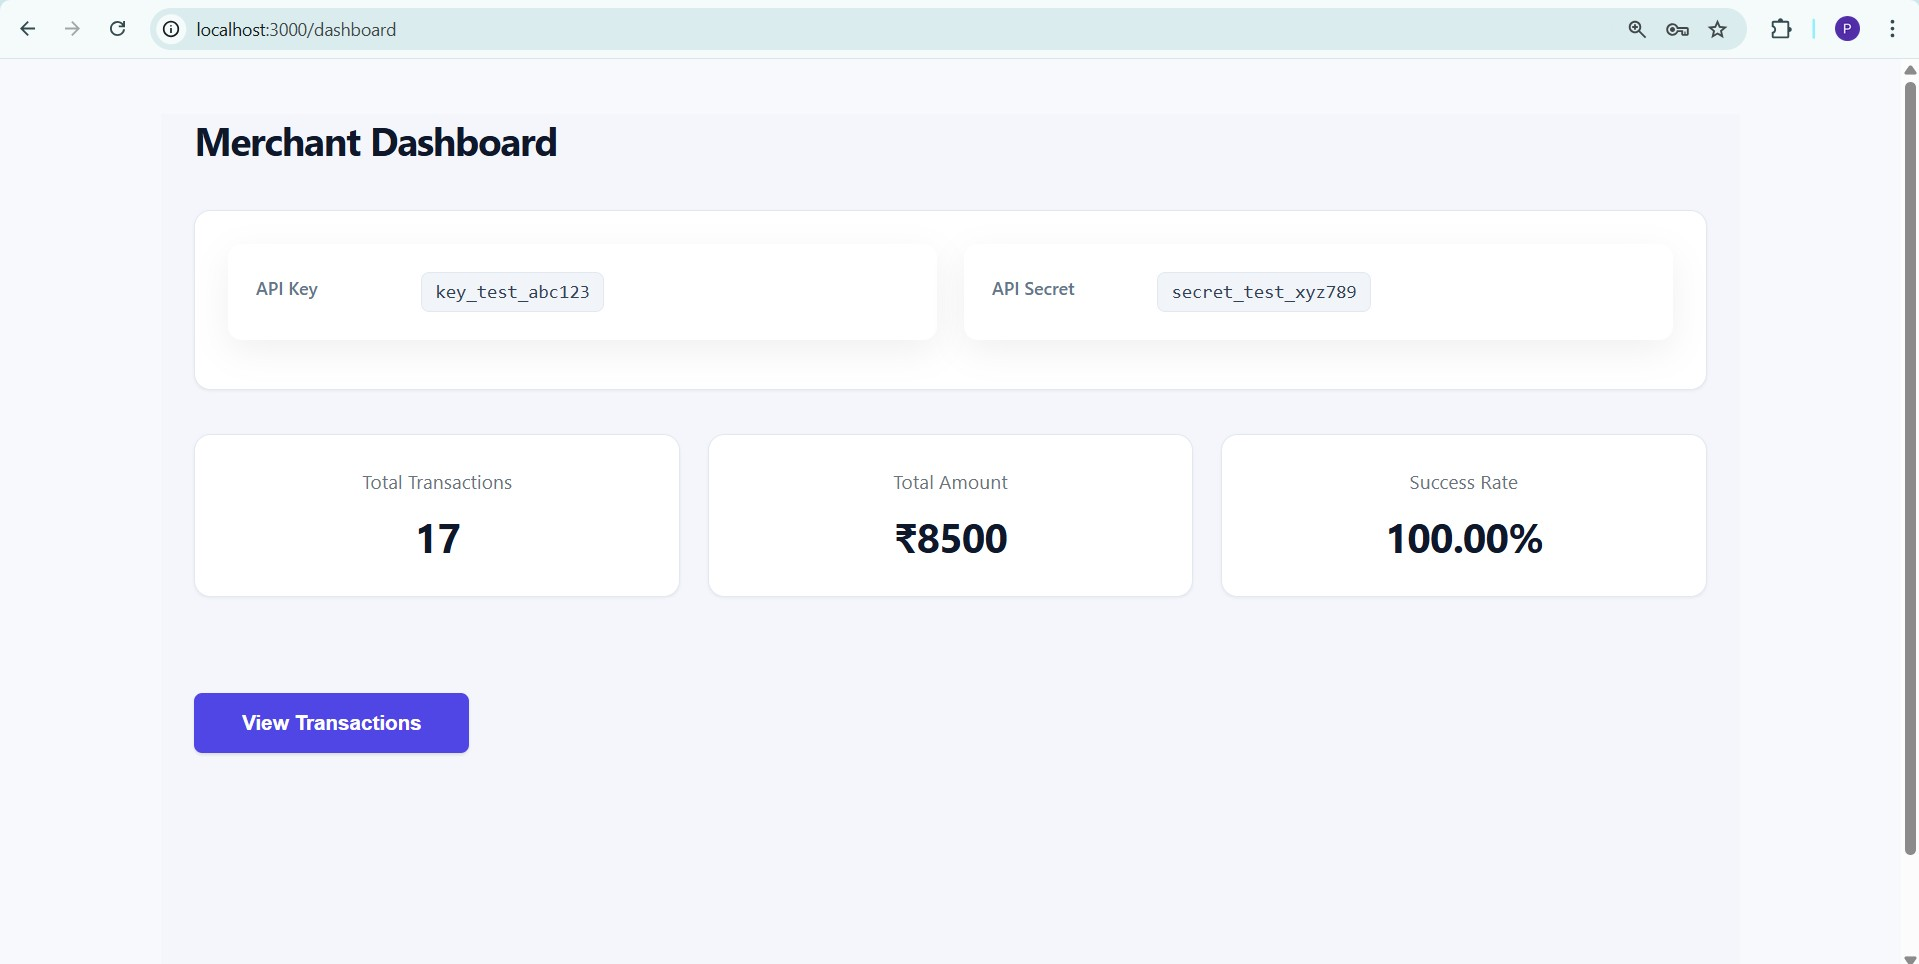
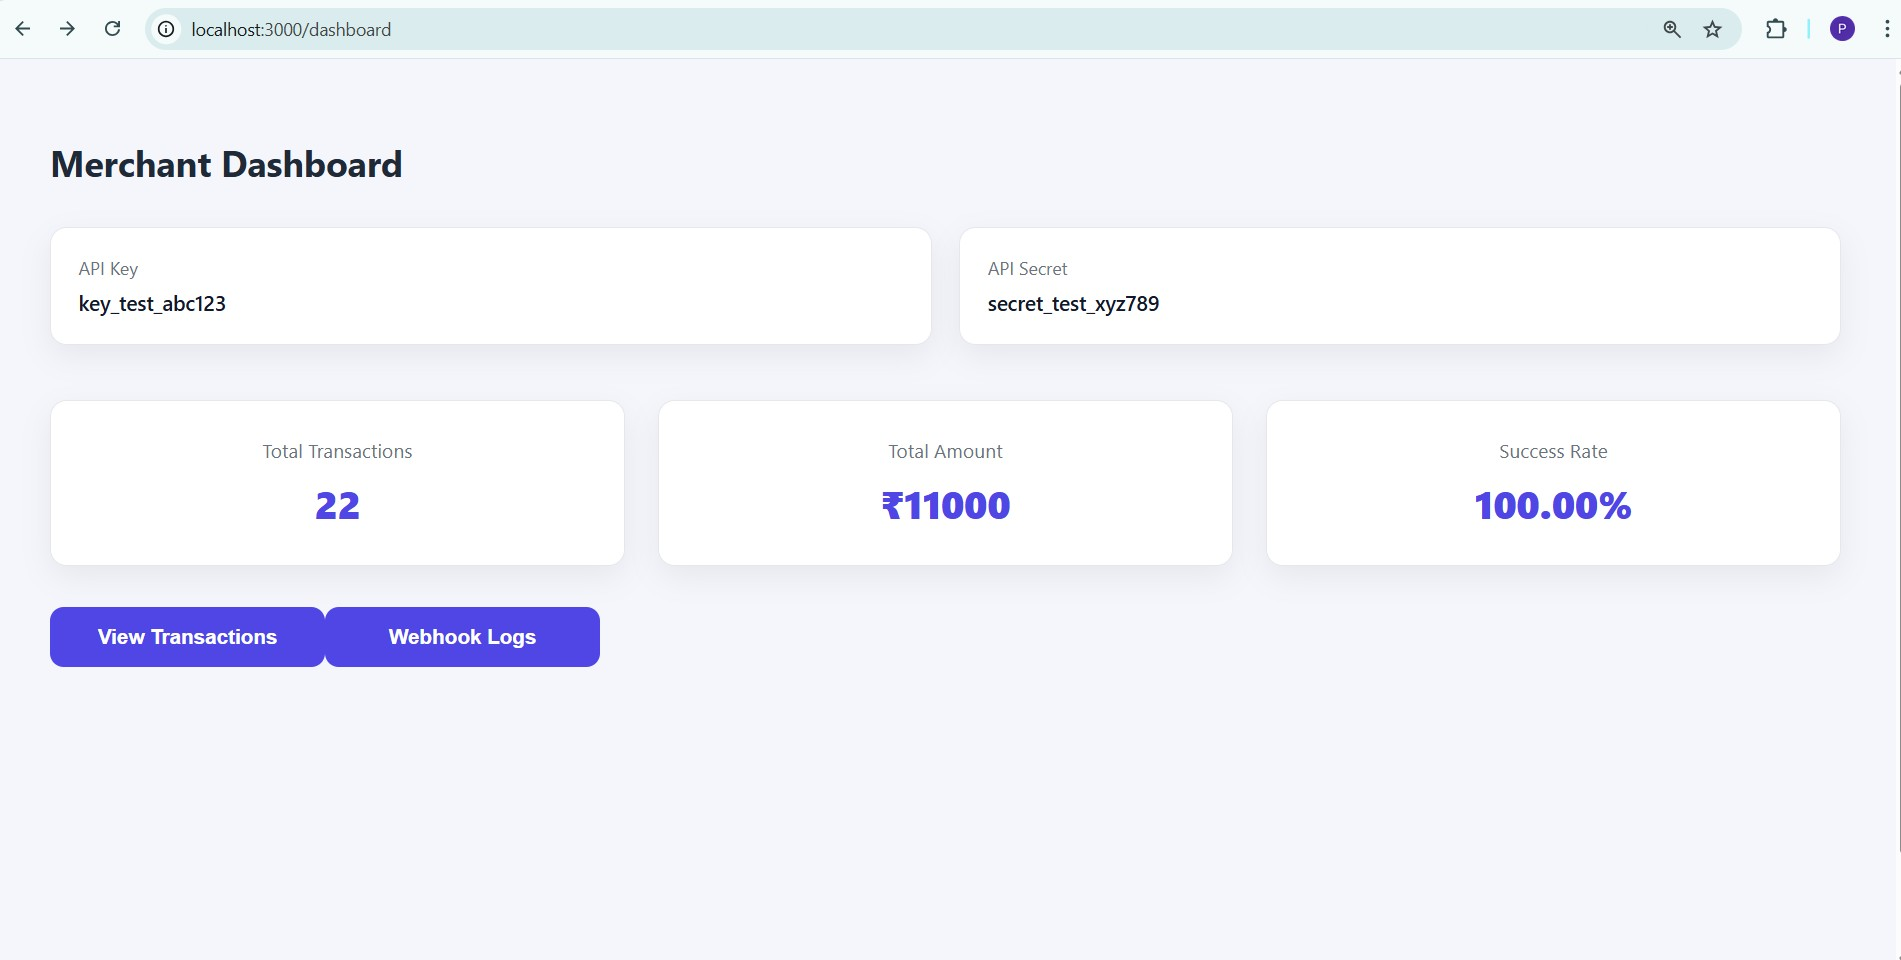
Added files to git

diff --git a/README.md b/README.md
@@ -1,34 +1,38 @@
 # Payment Gateway (Production-Ready)
 
-A production-style payment gateway backend with async processing, refunds, idempotency, and webhook delivery with retries. Includes a merchant dashboard and a hosted checkout page for public payments.
+A production-style payment gateway system with merchant authentication, order creation, asynchronous payment/refund processing using job queues, webhook delivery with retries + HMAC signatures, idempotency keys, an embeddable checkout JavaScript SDK, a merchant dashboard, and a hosted checkout page.
 
 ---
 
 ## Features
 
 ### Core APIs
+- Merchant authentication using API Key + Secret
 - Orders API (create + fetch)
 - Payments API (create + fetch + list)
 - Refunds API (create + fetch)
+- Webhook logs API (list + manual retry)
 
-### Async Processing
-- Payment processing happens asynchronously via a worker queue
-- Refund processing happens asynchronously via a worker queue
+### Asynchronous Processing (Queue + Worker)
+- Payments are created with `status=pending`
+- Worker processes payments in background and updates to `success` / `failed`
+- Refunds are created with `status=pending`
+- Worker processes refunds in background and updates to `processed`
 
-### Idempotency
-- Payment creation supports `Idempotency-Key` header
-- Same idempotency key returns the same payment response for the same merchant
+### Webhooks (Retry + HMAC Signature)
+- Merchant webhook endpoint is stored in DB
+- Webhook events are stored in DB and delivered asynchronously
+- Automatic retry logic (max 5 attempts)
+- Each webhook request includes `X-Webhook-Signature` header (HMAC-SHA256)
 
-### Webhooks
-- Webhook endpoints stored per merchant
-- Webhook events are queued in DB and delivered asynchronously
-- Retry logic with backoff schedule
-- After max retries, events are marked as failed
+### Idempotency Keys
+- Payment creation supports optional `Idempotency-Key`
+- Same key for the same merchant returns the same cached response (prevents duplicate charges)
 
-### Apps Included
-- Backend API (Node.js + Express + PostgreSQL + Redis + Bull)
-- Dashboard (frontend)
-- Checkout Page (frontend)
+### Frontend Apps Included
+- Merchant Dashboard (React)
+- Hosted Checkout Page (React)
+- Embeddable JavaScript SDK (`checkout.js`) to open checkout in modal + iframe
 
 ---
 
@@ -37,27 +41,30 @@ A production-style payment gateway backend with async processing, refunds, idemp
 - Node.js (Express)
 - PostgreSQL
 - Redis
-- Bull Queue
+- Bull Queue (job processing)
 - Docker + Docker Compose
-- React (Dashboard + Checkout Page)
+- React (Dashboard + Checkout)
 
 ---
 
 ## Repository Structure
 
 payment_gateway/
-backend/
-src/
-config/
-controllers/
-middleware/
-routes/
-services/
-worker.js
-package.json
-dashboard/
-checkout-page/
-docker-compose.yml
+├── backend/
+│ ├── src/
+│ │ ├── config/
+│ │ ├── controllers/
+│ │ ├── middleware/
+│ │ ├── routes/
+│ │ ├── services/
+│ │ └── ...
+│ ├── worker.js
+│ ├── package.json
+│ └── ...
+├── dashboard/
+├── checkout-page/
+├── docker-compose.yml
+└── README.md
 
 
 ---
@@ -72,7 +79,7 @@ From the root folder:
 
 ```bash
 docker compose up --build
-This will start:
+This starts:
 
 PostgreSQL
 
@@ -88,7 +95,7 @@ Checkout page
 
 3) Verify health
 curl http://localhost:8000/health
-Expected response:
+Expected response (example):
 
 {
   "status": "healthy",
@@ -97,7 +104,7 @@ Expected response:
   "worker": "running"
 }
 Test Merchant Credentials
-The seeded test merchant is available for development/testing.
+A test merchant is seeded automatically for development/testing.
 
 Get test merchant credentials
 curl http://localhost:8000/api/v1/test/merchant
@@ -111,21 +118,21 @@ Expected response (example):
   "seeded": true
 }
 API Usage (Windows CMD curl)
-All protected endpoints require:
+All protected endpoints require these headers:
 
 X-Api-Key
 
 X-Api-Secret
 
-Replace the values below if your DB uses different test keys.
+Replace values below if your seeded keys are different.
 
-1) Create an Order (Protected)
+1) Create Order (Protected)
 curl -X POST http://localhost:8000/api/v1/orders ^
   -H "X-Api-Key: key_test_abc123" ^
   -H "X-Api-Secret: secret_test_xyz789" ^
   -H "Content-Type: application/json" ^
   -d "{\"amount\":50000,\"currency\":\"INR\",\"receipt\":\"rcpt_123\"}"
-Response:
+Response (example):
 
 {
   "id": "order_xxxxx",
@@ -134,9 +141,9 @@ Response:
   "receipt": "rcpt_123",
   "status": "created"
 }
-2) Fetch Order (Public)
+2) Fetch Order (Public Checkout)
 curl -X GET http://localhost:8000/api/v1/orders/order_xxxxx/public
-3) Create a Payment (Protected + Idempotency)
+3) Create Payment (Protected + Idempotency)
 curl -X POST http://localhost:8000/api/v1/payments ^
   -H "X-Api-Key: key_test_abc123" ^
   -H "X-Api-Secret: secret_test_xyz789" ^
@@ -153,17 +160,17 @@ Worker later updates it to success or failed
 curl -X GET http://localhost:8000/api/v1/payments/pay_xxxxx ^
   -H "X-Api-Key: key_test_abc123" ^
   -H "X-Api-Secret: secret_test_xyz789"
-5) Create a Payment (Public Checkout Flow)
-Used by the hosted checkout page.
+5) Create Payment (Public Checkout Flow)
+Used by hosted checkout page.
 
 curl -X POST http://localhost:8000/api/v1/payments/public ^
   -H "Content-Type: application/json" ^
   -d "{\"order_id\":\"order_xxxxx\",\"method\":\"upi\",\"vpa\":\"user@paytm\"}"
-6) Fetch Payment (Public)
-curl -X GET http://localhost:8000/api/v1/payments/pay_xxxxx/public
-This endpoint is used for checkout polling.
+6) Fetch Payment Status (Public)
+Used for checkout polling.
 
-7) Create a Refund (Protected)
+curl -X GET http://localhost:8000/api/v1/payments/pay_xxxxx/public
+7) Create Refund (Protected)
 Only successful payments can be refunded.
 
 curl -X POST http://localhost:8000/api/v1/payments/pay_xxxxx/refunds ^
@@ -171,7 +178,7 @@ curl -X POST http://localhost:8000/api/v1/payments/pay_xxxxx/refunds ^
   -H "X-Api-Secret: secret_test_xyz789" ^
   -H "Content-Type: application/json" ^
   -d "{\"amount\":20000,\"reason\":\"customer requested\"}"
-Response:
+Response (example):
 
 {
   "id": "rfnd_xxxxx",
@@ -190,7 +197,7 @@ Webhooks
 Database Tables
 webhook_endpoints stores merchant webhook configuration
 
-webhook_events stores queued events and delivery attempts
+webhook_events stores webhook delivery logs + retry attempts
 
 Events Supported
 payment.success
@@ -199,49 +206,121 @@ payment.failed
 
 refund.processed
 
-How delivery works
-Payment/Refund worker creates a webhook event row in webhook_events
+Delivery Flow
+Payment/Refund worker creates a row in webhook_events
 
-Webhook queue worker delivers it to the latest active endpoint
+Webhook worker reads pending events and delivers them to merchant endpoint
 
-If delivery fails, it schedules a retry using next_retry_at
+Signature is generated using HMAC-SHA256 and added in header:
 
-Attempts increase on each delivery attempt
+X-Webhook-Signature: <signature>
 
-After max retries, the event is marked as failed
+If delivery fails:
 
-Check webhook event status (PostgreSQL)
+status remains pending
+
+attempts increments
+
+next_retry_at is scheduled
+
+After max retries (5):
+
+status becomes failed
+
+Check Webhook Event Logs (PostgreSQL)
 docker exec -it pg_gateway psql -U gateway_user -d payment_gateway -c "SELECT id,event_type,status,attempts,last_error,next_retry_at FROM webhook_events ORDER BY id DESC LIMIT 10;"
+Webhook Logs API (Protected)
+List webhook events:
+
+curl -X GET "http://localhost:8000/api/v1/webhooks?limit=10&offset=0" ^
+  -H "X-Api-Key: key_test_abc123" ^
+  -H "X-Api-Secret: secret_test_xyz789"
+Retry webhook event manually:
+
+curl -X POST http://localhost:8000/api/v1/webhooks/10/retry ^
+  -H "X-Api-Key: key_test_abc123" ^
+  -H "X-Api-Secret: secret_test_xyz789"
 Worker Logs
-API logs
+API logs:
+
 docker logs -f gateway_api
-Worker logs
+Worker logs:
+
 docker logs -f gateway_worker
 Dashboard
-The dashboard displays:
+The merchant dashboard provides:
 
-Merchant API credentials
+API credentials display
 
-Transaction stats
+Payment stats (total transactions, total amount, success rate)
 
-Recent transactions
+Transactions list
 
-Run via Docker Compose and open the dashboard URL exposed in your compose file.
+Webhook configuration + webhook delivery logs + manual retry
 
-Checkout Page
-Hosted checkout page supports:
+Open the dashboard (as per docker-compose port mapping):
+
+http://localhost:3000
+
+Hosted Checkout Page
+The hosted checkout page supports:
 
 Order summary display
 
-Payment method selection (UPI/Card)
+Payment method selection (UPI / Card)
 
 Public payment creation
 
-Polling public payment status until success/failed
+Polling payment status until success / failed
 
+Open checkout page:
+
+http://localhost:3001/checkout?order_id=YOUR_ORDER_ID
+
+Embeddable JavaScript SDK
+The checkout SDK is served as:
+
+http://localhost:3001/checkout.js
+
+Merchant Integration Example
+<script src="http://localhost:3001/checkout.js"></script>
+
+<button id="pay-button">Pay Now</button>
+
+<script>
+  document.getElementById("pay-button").addEventListener("click", function () {
+    const checkout = new PaymentGateway({
+      key: "key_test_abc123",
+      orderId: "order_xxxxx",
+      onSuccess: function (response) {
+        console.log("Payment successful:", response.paymentId);
+      },
+      onFailure: function (error) {
+        console.log("Payment failed:", error);
+      },
+      onClose: function () {
+        console.log("Checkout closed");
+      }
+    });
+
+    checkout.open();
+  });
+</script>
+SDK behavior:
+
+Opens a modal overlay
+
+Loads checkout page inside iframe
+
+Uses postMessage communication between iframe and parent page
 Notes
-This project is designed for local development and evaluation
 
-Uses async processing patterns found in production systems (queues + workers)
+This project is built for local development and evaluation
 
-Webhooks include retry support and delivery state tracking in DB
+Uses async processing patterns used in real payment systems:
+
+job queues + workers
+
+webhook retries + delivery tracking
+
+idempotency for safe retries
